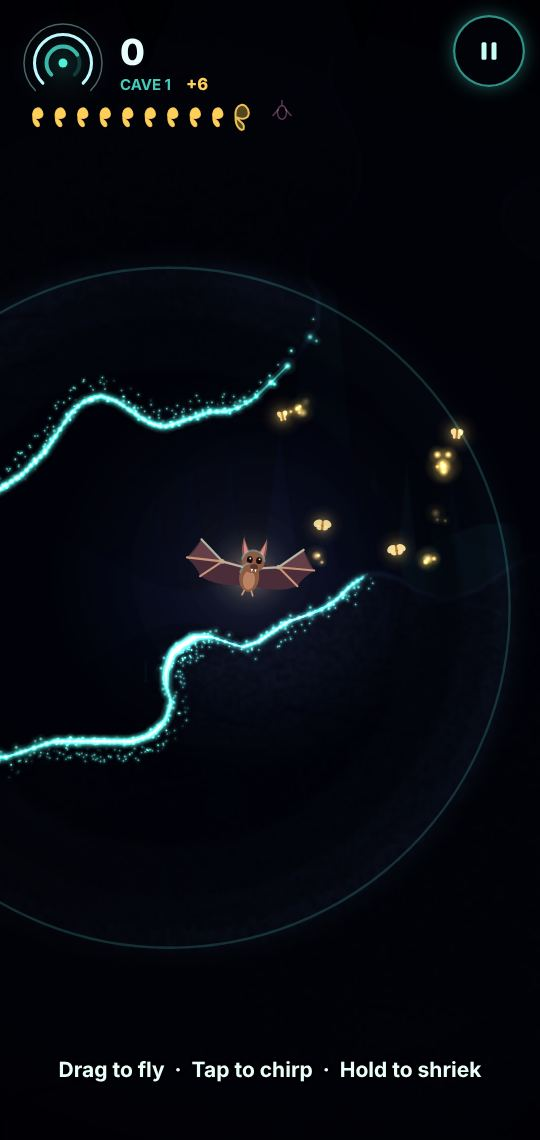
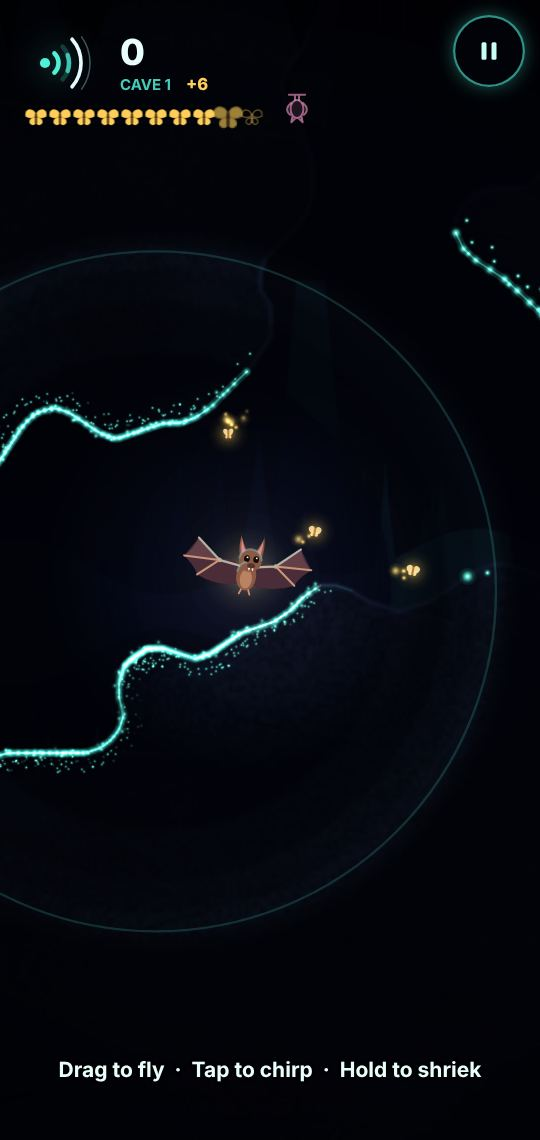
WIP checkpoint: Pipistrelle fix and Tinplate GP in progress [skip ci]
Claude-Session: https://claude.ai/code/session_019z41fSQpv4wske49kBe2yE

diff --git a/games/pipistrelle/index.html b/games/pipistrelle/index.html
@@ -24,7 +24,9 @@
 [hidden] { display: none !important; }
 html { height: 100%; background: var(--void); padding-top: env(safe-area-inset-top, 0px); padding-bottom: env(safe-area-inset-bottom, 0px); }
 body { height: 100%; margin: 0; overflow: hidden; overscroll-behavior: none; background: var(--void); -webkit-user-select: none; user-select: none; -webkit-tap-highlight-color: transparent; -webkit-touch-callout: none; }
-#game { display: block; width: 100%; height: 100%; outline: none; touch-action: none; cursor: crosshair; }
+/* the dim back layers render into their own small canvas, which the browser stretches behind the play canvas */
+#pp-low { position: fixed; left: 0; top: 0; width: 0; height: 0; z-index: 0; pointer-events: none; background: var(--void); }
+#game { position: relative; z-index: 1; display: block; width: 100%; height: 100%; outline: none; touch-action: none; cursor: crosshair; }
 
 /* ---- shell, in the cave's own voice: ink-black, thin cyan sonar lines, an echo-dot logo ---- */
 .k-shell .k-title-head { position: relative; }
@@ -64,6 +66,7 @@ body { height: 100%; margin: 0; overflow: hidden; overscroll-behavior: none; bac
 </head>
 <body>
 <canvas id="game" aria-label="Pipistrelle: drag to fly the bat, tap to chirp and see the cave in echoes"></canvas>
+<canvas id="pp-low" aria-hidden="true"></canvas>
 <script src="../../hub/sdk.js"></script>
 <script src="../../hub/kit.js"></script>
 <script>
@@ -92,7 +95,7 @@ body { height: 100%; margin: 0; overflow: hidden; overscroll-behavior: none; bac
   const SKY = [[0, '#04050c'], [0.5, '#0b1022'], [1, '#06080f']];
   const NIGHT_SKY = [[0, '#060c22'], [0.55, '#11244c'], [1, '#2a3f72']];
 
-  const view = Kit.view(document.getElementById('game'), { alpha: false });
+  const view = Kit.view(document.getElementById('game'));   // transparent: the back layers show through from #pp-low
   const mainCtx = view.ctx;
   let ctx = mainCtx;   // the draw target: the full-resolution view, or the 1x buffer for the dim, soft layers
   let zoom = 1;
@@ -973,7 +976,7 @@ body { height: 100%; margin: 0; overflow: hidden; overscroll-behavior: none; bac
       addDot(HIT.x, HIT.y, ta, c, 1);
       const dp = G.rng.range(4, 16), sd = G.rng.range(-5, 5);
       addDot(HIT.x + dx * dp - dy * sd, HIT.y + dy * dp + dx * sd, ta + 0.025, c, 0.45);
-      if (k & 1) { const s2 = G.rng.sign() * G.rng.range(3, 6); addDot(HIT.x - dy * s2, HIT.y + dx * s2, ta + 0.012, c, 0.7); }
+      if (k % 3 === 1) { const s2 = G.rng.sign() * G.rng.range(3, 6); addDot(HIT.x - dy * s2, HIT.y + dx * s2, ta + 0.012, c, 0.7); }
       if (k > 0 && hitD[k - 1] !== Infinity && Math.abs(hitD[k - 1] - d) < 28 && hitT[k - 1] === c) {
         addLine(hitX[k - 1], hitY[k - 1], HIT.x, HIT.y, ta, c);
         memPush(hitX[k - 1], hitY[k - 1], HIT.x, HIT.y, ta, c);
@@ -1080,13 +1083,13 @@ body { height: 100%; margin: 0; overflow: hidden; overscroll-behavior: none; bac
   }
 
   // energy drains a little faster in every deeper cave
-  const drainRate = () => 1.6 + Math.min(0.7, (G.cave - 1) * 0.06);
+  const drainRate = () => 1.75 + Math.min(0.55, (G.cave - 1) * 0.05);
   function eatMoth(m) {
     m.dead = true;
     G.carried++; G.mothsEaten++;
     const was = G.energy, full = was >= E_MAX - 0.5;
     if (full) G.carried++;   // already full: the bat feasts, and the spare moth goes into the haul
-    G.energy = Math.min(E_MAX, G.energy + 5);
+    G.energy = Math.min(E_MAX, G.energy + 4);
     const b = G.bat;
     b.puff = 1;
     Kit.tween(b, { puff: 0 }, 520, 'quadIn', { delay: 120 });
@@ -1537,7 +1540,7 @@ body { height: 100%; margin: 0; overflow: hidden; overscroll-behavior: none; bac
         s.fy += s.vy * dt;
         const tip = s.fy + s.len;
         if (alive && Kit.segCircle(s.x, s.fy, s.x, tip, b.x, b.y, BAT_R + 3)) {
-          hurt(12, s.x, s.fy, 'stal');
+          hurt(10, s.x, s.fy, 'stal');
           crash(s, b.x, b.y);
         } else if (fieldAt(s.x, tip) >= 0.5 || typeAt(s.x, tip) === 2) crash(s, s.x, tip);
       }
@@ -1695,16 +1698,26 @@ body { height: 100%; margin: 0; overflow: hidden; overscroll-behavior: none; bac
      ===================================================================================== */
   // The backdrop, rock, darkness, memory and moonlight are dim and soft: they are composed in a buffer at
   // 1 CSS px per pixel and blitted once, which keeps a DPR 2 phone well inside its fill budget.
-  let lowC = null, lowG = null;
-  const LOW_S = 0.6;
+  let lowC = null, lowG = null, hiQ = !!Kit.keyart, lowKey = '';
+  // keep the back canvas exactly under the play canvas (checked each frame; it only touches the style on a change)
+  function placeLow() {
+    const c = view.canvas, k = c.offsetLeft + ',' + c.offsetTop + ',' + c.clientWidth + ',' + c.clientHeight;
+    if (k === lowKey) return;
+    lowKey = k;
+    const r = c.getBoundingClientRect(), st = lowC.style;
+    st.left = r.left + 'px'; st.top = r.top + 'px'; st.width = r.width + 'px'; st.height = r.height + 'px';
+  }
   function draw() {
     const w = view.w, h = view.h, t = G ? G.t : 0;
     if (!G || !L) { view.clear(P.void0); return; }
     if (G.sub === 'night' || (G.sub === 'dive' && G.night)) { view.clear(P.void0); drawNight(w, h, t); drawOverlays(w, h); drawHud(w, h); return; }
     // The dim layers under the dark (sky, silhouettes, rock, the dark mask, memory lines) are soft by nature, so they
     // render at a reduced scale and are stretched once: this keeps the frame inside budget on weak GPUs.
+    const LOW_S = hiQ ? 1 : 0.6;
     const lw = Math.ceil(w * LOW_S), lh = Math.ceil(h * LOW_S);
-    if (!lowC || lowC.width !== lw || lowC.height !== lh) { lowC = gfx.offscreen(lw, lh); lowG = lowC.getContext('2d', { alpha: false }); }
+    if (!lowC) { lowC = document.getElementById('pp-low'); lowG = lowC.getContext('2d', { alpha: false }); }
+    if (lowC.width !== lw || lowC.height !== lh) { lowC.width = lw; lowC.height = lh; }
+    placeLow();
     const hw = w / 2 / zoom, hh = h / 2 / zoom;
     const x0 = cam.x - hw - 30, y0 = cam.y - hh - 30, x1 = cam.x + hw + 30, y1 = cam.y + hh + 30;
     ctx = lowG;
@@ -1714,10 +1727,9 @@ body { height: 100%; margin: 0; overflow: hidden; overscroll-behavior: none; bac
     cam.apply(ctx);
     // nearest-neighbour upscale: the smoothed 2x stretch of the half-res rock was the frame-time hog, and the
     // whole layer is later upscaled smoothly to device pixels anyway, so it reads the same
-    ctx.imageSmoothingEnabled = false;
+    ctx.imageSmoothingEnabled = hiQ;
     blitCave(L.rock, x0, y0, x1, y1, 1, 'source-over');
     ctx.imageSmoothingEnabled = true;
-    drawOutside(x0, y0, x1, y1, t);
     cam.restore(ctx);
     drawDark(w, h, t);
     cam.apply(ctx);
@@ -1731,8 +1743,9 @@ body { height: 100%; margin: 0; overflow: hidden; overscroll-behavior: none; bac
     ctx = mainCtx;
     ctx.setTransform(view.dpr, 0, 0, view.dpr, 0, 0);
     ctx.globalAlpha = 1; ctx.globalCompositeOperation = 'source-over';
-    ctx.drawImage(lowC, 0, 0, lw, lh, 0, 0, w, h);
+    ctx.clearRect(0, 0, w, h);
     cam.apply(ctx);
+    drawOutside(x0, y0, x1, y1, t);   // the moonlit arch, crisp at full resolution
     drawWater(x0, x1, t);
     drawProximity(t);
     drawEntities(t, x0, y0, x1, y1);
@@ -2456,6 +2469,21 @@ body { height: 100%; margin: 0; overflow: hidden; overscroll-behavior: none; bac
 
   /* ---------- HUD: sonar arcs, moth-wing energy pips, hanging pup icons; thin glowing lines on black ---------- */
   const DISPLAY = 'Unbounded, "Arial Black", system-ui, sans-serif';
+  // energy pips: a little moth seen from above (big forewings, small hindwings, a body), cached per look
+  const PIP = { gold: [P.gold, P.gold, 1], red: [P.red, P.red, 1], rose: ['#ff8c9e', P.red, 1], off: [null, P.gold, 0], offRed: [null, P.red, 0] };
+  const pipSprite = kind => gfx.sprite('pp-pip-' + kind, 18, 16, g => {
+    const [fillC, lineC, on] = PIP[kind];
+    g.translate(9, 8);
+    g.beginPath();
+    for (const sd of [-1, 1]) {
+      g.moveTo(0, -1); g.bezierCurveTo(sd * 2, -6.5, sd * 7.5, -5.5, sd * 6.6, -0.6); g.bezierCurveTo(sd * 4.5, 0.6, sd * 2, 0.4, 0, -1);
+      g.moveTo(0, 0.6); g.bezierCurveTo(sd * 4.6, 0.4, sd * 5, 4.6, sd * 2.2, 5); g.bezierCurveTo(sd * 1, 4.8, 0, 3, 0, 0.6);
+    }
+    if (fillC) { g.fillStyle = fillC; g.fill(); }
+    g.strokeStyle = gfx.alpha(lineC, on ? 0.9 : 0.35); g.lineWidth = 1; g.stroke();
+    g.fillStyle = on ? 'rgba(58,36,16,0.9)' : gfx.alpha(lineC, 0.35);
+    g.fillRect(-0.7, -2.4, 1.4, 6.4);
+  });
   function drawHud(w, h) {
     if (Kit.keyart || !G || G.mode !== 'play') return;
     const t = G.t, left = Math.max(16, (w - 1100) / 2 + 16), top = 14;
@@ -2497,25 +2525,10 @@ body { height: 100%; margin: 0; overflow: hidden; overscroll-behavior: none; bac
     for (let k = 0; k < 10; k++) {
       const fill = clamp(G.energy / 10 - k, 0, 1), x = left + 8 + k * 16;
       const pop = G.pipPop && k === Math.min(9, Math.floor(G.energy / 10)) ? 1 + G.pipPop * 0.4 : 1;
-      ctx.save();
-      ctx.translate(x, py);
-      ctx.scale(pop, pop);
-      // a little moth seen from above: big forewings, small hindwings, a body
-      ctx.beginPath();
-      for (const sd of [-1, 1]) {
-        ctx.moveTo(0, -1); ctx.bezierCurveTo(sd * 2, -6.5, sd * 7.5, -5.5, sd * 6.6, -0.6); ctx.bezierCurveTo(sd * 4.5, 0.6, sd * 2, 0.4, 0, -1);
-        ctx.moveTo(0, 0.6); ctx.bezierCurveTo(sd * 4.6, 0.4, sd * 5, 4.6, sd * 2.2, 5); ctx.bezierCurveTo(sd * 1, 4.8, 0, 3, 0, 0.6);
-      }
-      if (fill > 0) {
-        const col = low ? (Math.sin(t * 10) > 0 ? P.red : '#ff8c9e') : P.gold;
-        ctx.fillStyle = col; ctx.globalAlpha = 0.25 + 0.75 * fill; ctx.fill();
-        ctx.globalAlpha = 1;
-      }
-      ctx.strokeStyle = gfx.alpha(low ? P.red : P.gold, fill > 0 ? 0.9 : 0.35); ctx.lineWidth = 1;
-      ctx.stroke();
-      ctx.fillStyle = gfx.alpha(fill > 0 ? '#3a2410' : P.gold, fill > 0 ? 0.9 : 0.35);
-      ctx.fillRect(-0.7, -2.4, 1.4, 6.4);
-      ctx.restore();
+      const col = !low ? 'gold' : Math.sin(t * 10) > 0 ? 'red' : 'rose';
+      ctx.globalAlpha = fill > 0 ? 0.25 + 0.75 * fill : 1;
+      ctx.drawImage(pipSprite(fill > 0 ? col : low ? 'offRed' : 'off'), x - 9 * pop, py - 8 * pop, 18 * pop, 16 * pop);
+      ctx.globalAlpha = 1;
     }
     if (G.pipPop) G.pipPop = Math.max(0, G.pipPop - 0.05);
     // pups: tiny hanging bats; filled ones fly with you
@@ -2842,6 +2855,7 @@ body { height: 100%; margin: 0; overflow: hidden; overscroll-behavior: none; bac
 
   /* ---------- capture scenes: deterministic, hand-placed moments ---------- */
   function sceneRun(seed, cave) {
+    hiQ = true;   // store cards and screenshots render every layer at full resolution
     fx.seed(seed);
     nextSeed = seed; forceNew = true;
     shell.start();

diff --git a/games/tinplate-gp/index.html b/games/tinplate-gp/index.html
@@ -1071,7 +1071,7 @@ body { height: 100%; margin: 0; overflow: hidden; overscroll-behavior: none; bac
     const lead = order[0];
     const winHuman = G.cars[lead] && G.cars[lead].human;
     const myPlace = order.indexOf(me) + 1;
-    const won = CH.twoP ? !!winHuman : lead === me;
+    const won = !forced && (CH.twoP ? !!winHuman : lead === me);
     const score = runScore();
     const stats = [
       { label: 'Championship', value: POS[myPlace - 1] + ' of 4' },
@@ -1990,8 +1990,7 @@ body { height: 100%; margin: 0; overflow: hidden; overscroll-behavior: none; bac
     // number roundel
     g.fillStyle = m.trim; g.beginPath(); g.arc(5.2, 0, 3.3, 0, TAU); g.fill();
     g.strokeStyle = m.acc; g.lineWidth = 0.7; g.stroke();
-    g.fillStyle = '#141414'; g.font = '800 4.4px ' + gfx.fonts.display; g.textAlign = 'center'; g.textBaseline = 'middle';
-    g.save(); g.translate(5.2, 0.15); g.rotate(Math.PI / 2); g.fillText(String(m.num), 0, 0); g.restore();
+    g.save(); g.translate(5.2, 0.15); g.rotate(Math.PI / 2); gfx.text(g, String(m.num), 0, 0, { size: 4.4, weight: 800, color: '#141414', world: true }); g.restore();
     // windscreen and cockpit with the tin driver
     g.fillStyle = 'rgba(190,225,240,0.85)'; g.beginPath(); g.ellipse(0.4, 0, 1.1, 3.3, 0, 0, TAU); g.fill();
     g.fillStyle = '#1b1712'; g.beginPath(); g.ellipse(-3, 0, 2.6, 3.1, 0, 0, TAU); g.fill();
@@ -2127,23 +2126,25 @@ body { height: 100%; margin: 0; overflow: hidden; overscroll-behavior: none; bac
   const motes = [];
   for (let k = 0; k < 28; k++) motes.push({ x: Math.random(), y: Math.random(), z: Math.random(), ph: Math.random() * 6 });
 
+  const PERF = new URLSearchParams(location.search).get('perf') || '';
   function draw() {
     if (layoutDirty) doLayout();
     const w = view.w, h = view.h, t = loop.time;
-    view.clear('#1a0f08');
-    if (!TR || !staticCv) return;
-    ctx.save();
     // camera nudge toward a crash and a pulse on the loop
     const z = 1 + Kit.ease.cubicOut(G.zoom) * 0.06 + Math.sin(G.loopPulse * Math.PI) * 0.025;
+    const moved = z !== 1 || fx.shakeX || fx.shakeY;
+    if (moved || !staticCv) view.clear('#1a0f08'); else { ctx.setTransform(view.dpr, 0, 0, view.dpr, 0, 0); ctx.globalAlpha = 1; ctx.globalCompositeOperation = 'source-over'; }
+    if (!TR || !staticCv) return;
+    ctx.save();
     if (z !== 1) {
       const zx = G.zoom > 0 ? G.zx : w / 2, zy = G.zoom > 0 ? G.zy : h / 2;
       ctx.translate(zx, zy); ctx.scale(z, z); ctx.translate(-zx, -zy);
     }
     ctx.translate(fx.shakeX || 0, fx.shakeY || 0);
-    ctx.drawImage(staticCv, 0, 0, w, h);
+    if (!PERF.includes('s')) ctx.drawImage(staticCv, 0, 0, w, h);
     ctx.save();
     worldTransform(ctx);
-    drawGlow();
+    if (!PERF.includes('g')) drawGlow();
     drawGhost();
     // ground-level cars (and tumbling ones), then the bridge layer, then raised cars
     const low = [], high = [];
@@ -2153,9 +2154,14 @@ body { height: 100%; margin: 0; overflow: hidden; overscroll-behavior: none; bac
       else low.push(c);
     }
     for (const c of G.cars) if (c.part && c.state !== 'slot') drawPart(c.part);
-    for (const c of low) drawCar(c);
+    if (!PERF.includes('c')) for (const c of low) drawCar(c);
     ctx.restore();
-    if (overCv) ctx.drawImage(overCv, 0, 0, w, h);
+    if (overCv && overBox) {
+      // only the part of the elevated layer that holds anything (bridge, gantry)
+      const d = view.dpr, x0 = Math.max(0, Math.floor(overBox.x0)), y0 = Math.max(0, Math.floor(overBox.y0));
+      const x1 = Math.min(w, Math.ceil(overBox.x1)), y1 = Math.min(h, Math.ceil(overBox.y1));
+      if (x1 > x0 && y1 > y0) ctx.drawImage(overCv, x0 * d, y0 * d, (x1 - x0) * d, (y1 - y0) * d, x0, y0, x1 - x0, y1 - y0);
+    }
     ctx.save();
     worldTransform(ctx);
     for (const c of high) drawCar(c);
@@ -2166,8 +2172,8 @@ body { height: 100%; margin: 0; overflow: hidden; overscroll-behavior: none; bac
     ctx.restore();
     ctx.restore();
     // ambient: dust in the lamp light, a moth's shadow, a flicker
-    drawAmbient(w, h, t);
-    if (!Kit.keyart && mode === 'play') drawHud(w, h, t);
+    if (!PERF.includes('a')) drawAmbient(w, h, t);
+    if (!Kit.keyart && mode === 'play' && !PERF.includes('h')) drawHud(w, h, t);
   }
 
   function drawAmbient(w, h, t) {
